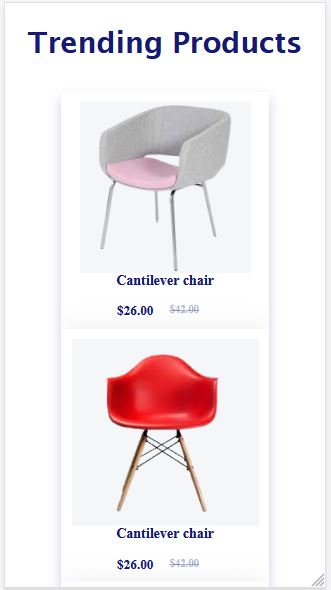
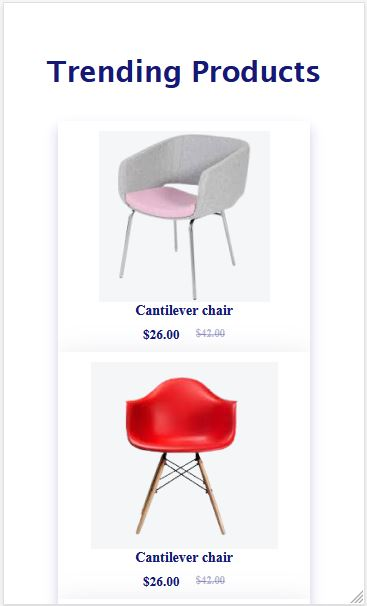
new features added

diff --git a/style1.css b/style1.css
@@ -16,7 +16,7 @@ list-style: none;
 }
 .Top-nav{
     font-family:Josefin Sans;
-    font-size: 0.45rem;
+    font-size: 0.52rem;
     color: #F1F1F1;
     
 display: flex;
@@ -145,14 +145,14 @@ display: flex;
     }
 
    .text-page1{
-      padding-top: 1rem;
-      padding-left: 4rem;
-      text-align: center;
+      padding-top: 0.3rem;
+      padding-left: 1rem;
+     
       
     }
 
     .action-button{
-        margin-top:-0.4rem ;
+        margin-top:-0.1rem ;
         
     }   
 
@@ -161,14 +161,14 @@ display: flex;
       font-family: system-ui,'Segoe UI','Open Sans', 'Helvetica Neue', sans-serif;
       font-style: normal;
       font-weight: 700;
-      font-size: 15.1px;
-      line-height: 1.5rem;
+      font-size: 15px;
+      line-height: 1.8rem;
     /* text-align: justify; */
     }
 
     .text-page1 h1{
        font-family: sans-serif;
-       font-size: 1.1rem;
+       font-size: 1.4rem;
        color: #000000;
        line-height: 1.8rem;
        letter-spacing: 0.015em;
@@ -179,7 +179,7 @@ display: flex;
 
   .text-page1 p{
       font-family: Arial;
-      font-size: 0.5rem;
+      font-size: 0.6rem;
       line-height: 1.4rem;
       color: #8A8FB9;
       font-style: normal;
@@ -190,7 +190,7 @@ display: flex;
   
     .text-page1 button{
         background-color: #FB2E86;
-        width: 5.7rem;
+        width: 7rem;
         height: 2rem;
         border-radius: 0.13rem;
     
@@ -223,7 +223,7 @@ display: flex;
     text-align: center;
     color: #0D0E43 ;
     padding-bottom: 2rem;
-    padding-top: 5rem;
+    padding-top: 1rem;
 }
 .chair-image {
     display:flex;
